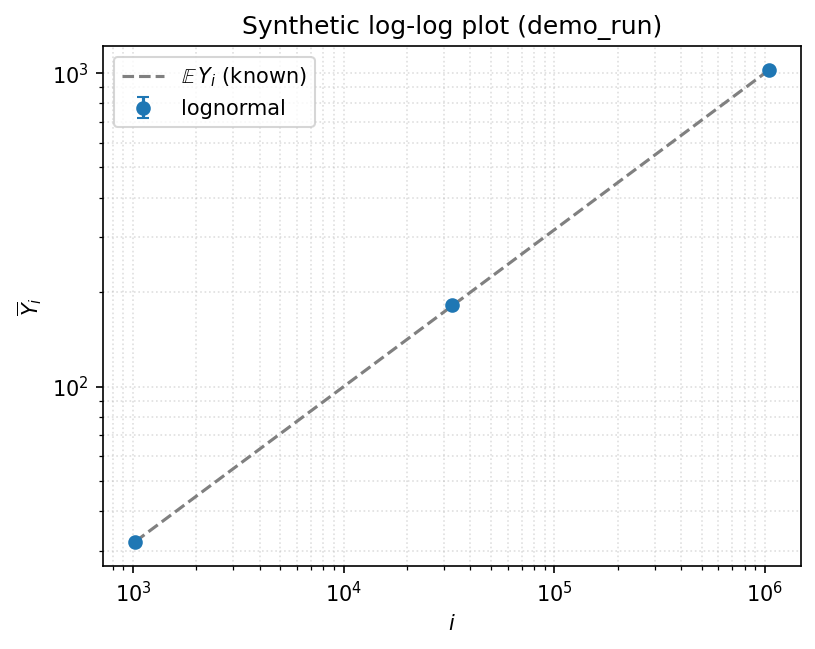
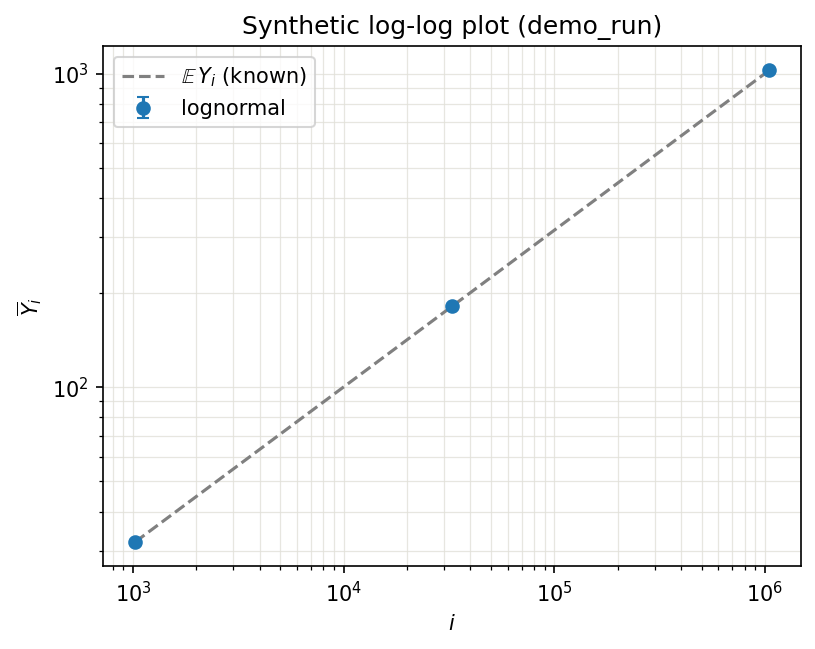
Add estimates_plot: visualize the 4 gamma-hat estimators
Loaded the dataviz skill before writing any chart code, per its own
trigger rule. Design: two_point and drop_leading each produce a sequence
of estimates, so they're plotted against the smallest scale used in each
window (log x-axis) -- shows directly whether the estimate converges as
small, more finite-size-biased scales get dropped. all_points and mle are
single estimates with no window to vary over, so they're horizontal
reference lines instead of being forced onto the same axis dishonestly.
true_gamma (when known) is a muted dashed reference.

Colors: dataviz skill's validated default palette, categorical slots 1-3
(blue/orange/aqua) in fixed order. mle's untrustworthy state uses the
reserved status-critical color (red, dashed, explicit "not trustworthy"
text in the legend -- never color alone) instead of spending a 4th
competing hue, per the palette's series-count ladder (an all-pairs-visible
chart caps at three hues; a 4th means fold to status/facet, not add a
hue). Also fixed the existing loglog_plot's dotted gridlines to the
skill's solid-hairline spec for consistency within the same module --
dashed/dotted gridlines are a listed anti-pattern.

tools/loglog_plot.py: new estimates_plot(results, *, ax=None), operating
on tools.loglog.compare_methods()'s output dict directly (so a results.json
could be reloaded and replotted without the original samples).
plot_loglog.py now also writes images/<stem>_estimates.png.
[…]

diff --git a/tools/loglog_plot.py b/tools/loglog_plot.py
@@ -11,6 +11,15 @@ plots E[Y_i] (or its empirical estimate Y_bar_i) against i on log-log axes,
 expecting an approximately straight line of slope gamma once finite-size
 effects are small. This draws exactly that: one point per scale, at
 (i, Y_bar_i), with +-1 standard error bars, on log-log axes.
+
+`estimates_plot` is a second, separate chart for `tools.loglog.compare_methods`'s
+output -- comparing the gamma-hat estimates themselves, not the raw data.
+
+Colors follow the dataviz skill's validated default palette (categorical slots
+1-3; see references/palette.md), status colors reserved for the mle estimator's
+trustworthy/not state rather than spent as a 4th competing hue (the palette's
+series-count ladder caps an all-pairs-visible chart -- points from two series
+plus two reference lines, all visible at once -- at three hues).
 """
 
 from __future__ import annotations
@@ -18,6 +27,17 @@ from __future__ import annotations
 from typing import Callable, Mapping, Sequence
 
 import numpy as np
+
+# Colors, dataviz skill's validated default palette (references/palette.md),
+# light mode. Categorical slots 1-3, fixed order, not cycled. Status color
+# reserved for mle's untrustworthy state, not spent as a 4th competing hue.
+_BLUE = "#2a78d6"
+_ORANGE = "#eb6834"
+_AQUA = "#1baf7a"
+_INK = "#0b0b0b"  # primary ink
+_MUTED = "#898781"  # muted ink, for the true_gamma target reference
+_GRIDLINE = "#e1e0d9"  # hairline gridline
+_CRITICAL = "#d03b3b"  # status palette, reserved for mle's untrustworthy state
 
 
 def loglog_points(samples: Mapping[int, Sequence[float]]):
@@ -75,6 +95,81 @@ def loglog_plot(
     ax.set_yscale("log")
     ax.set_xlabel("$i$")
     ax.set_ylabel(r"$\overline{Y}_i$")
-    ax.grid(True, which="both", ls=":", alpha=0.4)
+    ax.grid(True, which="both", ls="-", lw=0.6, color=_GRIDLINE, alpha=0.8)
     ax.legend()
+    return ax
+
+
+def estimates_plot(results: dict, *, ax=None):
+    """Plot the gamma-hat estimates from `tools.loglog.compare_methods`'s output.
+
+    `two_point` and `drop_leading` each produce a *sequence* of estimates, one
+    per window -- plotted against the smallest scale in each window (log x-axis),
+    so the chart shows directly whether the estimate is converging as small,
+    more finite-size-biased scales are dropped. `all_points` and `mle` are
+    single estimates with no window to vary over, so they're drawn as
+    horizontal reference lines across the full width instead of forced onto
+    the same x-axis dishonestly. `mle` is drawn in primary ink when its
+    `trustworthy` diagnostic is True, and in the status-critical color
+    (with an explicit warning in its legend label -- never color alone) when
+    it's False. `true_gamma`, if present in `results`, is a muted dashed
+    reference line.
+
+    Parameters
+    ----------
+    results : dict, as returned by `tools.loglog.compare_methods`.
+    ax : matplotlib Axes, optional. A new figure/axes is created if omitted.
+
+    Returns
+    -------
+    matplotlib Axes
+    """
+    import matplotlib.pyplot as plt  # deferred: keep this module importable without matplotlib
+
+    if ax is None:
+        _, ax = plt.subplots()
+
+    m = results["methods"]
+    scales = results["scales"]
+    x_min, x_max = min(scales), max(scales)
+
+    two_point = m["two_point"]["estimates"]
+    if two_point:
+        xs = [e["scales"][0] for e in two_point]
+        ys = [e["gamma_hat"] for e in two_point]
+        ax.plot(
+            xs, ys, marker="o", markersize=8, markeredgecolor="white", markeredgewidth=1.5,
+            linewidth=2, color=_BLUE, label="two_point ($m=2$)",
+        )
+
+    drop_leading = m["drop_leading"]["estimates"]
+    if drop_leading:
+        xs = [e["scales_used"][0] for e in drop_leading]
+        ys = [e["gamma_hat"] for e in drop_leading]
+        ax.plot(
+            xs, ys, marker="s", markersize=8, markeredgecolor="white", markeredgewidth=1.5,
+            linewidth=2, color=_ORANGE, label="drop_leading",
+        )
+
+    all_points_gamma = m["all_points"]["gamma_hat"]
+    ax.hlines(all_points_gamma, x_min, x_max, color=_AQUA, linewidth=2, label=f"all_points ({all_points_gamma:.4f})")
+
+    mle = m["mle"]
+    if mle["trustworthy"]:
+        ax.hlines(mle["gamma_hat"], x_min, x_max, color=_INK, linewidth=2, label=f"mle ({mle['gamma_hat']:.4f})")
+    else:
+        ax.hlines(
+            mle["gamma_hat"], x_min, x_max, color=_CRITICAL, linewidth=2, linestyle="--",
+            label=f"mle ({mle['gamma_hat']:.4f})  ⚠ not trustworthy",
+        )
+
+    true_gamma = results.get("true_gamma")
+    if true_gamma is not None:
+        ax.axhline(true_gamma, color=_MUTED, linewidth=1.5, linestyle="--", label=rf"true $\gamma$ ({true_gamma:.4f})")
+
+    ax.set_xscale("log")
+    ax.set_xlabel("smallest scale $i$ used in window")
+    ax.set_ylabel(r"$\hat\gamma$")
+    ax.grid(True, which="both", ls="-", lw=0.6, color=_GRIDLINE, alpha=0.8)
+    ax.legend(fontsize=8, loc="best")
     return ax

diff --git a/experiments/00_synthetic/plot_loglog.py b/experiments/00_synthetic/plot_loglog.py
@@ -16,9 +16,10 @@ overlay and true_gamma) is read from the same stem's .json if present, but
 isn't required -- missing metadata just means no overlay/true_gamma, not a
 failure to plot or estimate.
 
-Writes two outputs, both named after the data file's stem: the plot to
-`images/<stem>.png`, and the method-comparison to `data/<stem>_results.json`
-(see tools/loglog.py's compare_methods for the four methods compared).
+Writes three outputs, all named after the data file's stem: the raw-data plot
+to `images/<stem>.png`, a comparison of the four gamma-hat estimators (see
+tools/loglog.py's compare_methods) to `images/<stem>_estimates.png`, and the
+underlying numbers for the latter to `data/<stem>_results.json`.
 
 Run (after generating some data, e.g. `generator.py -meta example_config.json
 --tag demo_run`):
@@ -43,7 +44,7 @@ sys.path.insert(0, str(HERE.parent.parent))  # repo root, for tools/
 sys.path.insert(0, str(HERE))  # this dir, for generator
 
 from tools.loglog import compare_methods  # noqa: E402
-from tools.loglog_plot import loglog_plot, loglog_points  # noqa: E402
+from tools.loglog_plot import estimates_plot, loglog_plot, loglog_points  # noqa: E402
 
 from generator import load_metadata, load_samples, mean_Y, params_from_json  # noqa: E402
 
@@ -89,6 +90,13 @@ def main(argv: list[str] | None = None) -> None:
     results["source_npz"] = str(args.data)
     results_path = args.data.parent / f"{args.data.stem}_results.json"
     results_path.write_text(json.dumps(results, indent=2, sort_keys=True))
+
+    fig2, ax2 = plt.subplots(figsize=(6, 4.5))
+    estimates_plot(results, ax=ax2)
+    ax2.set_title(f"$\\hat\\gamma$ estimator comparison ({args.data.stem})")
+    out2 = out.parent / f"{args.data.stem}_estimates.png"
+    fig2.savefig(out2, dpi=150, bbox_inches="tight")
+    print(f"Saved {out2}")
 
     m = results["methods"]
     print(f"\ngamma estimates (true_gamma={true_gamma}):")

diff --git a/tools/README.md b/tools/README.md
@@ -4,10 +4,21 @@ Shared, experiment-agnostic utilities. May not import from `experiments/`. Every
 function here needs a passing unit test in `tools/tests/` (checked against a closed
 form, not just "runs") before any experiment is allowed to depend on it.
 
-`loglog_plot.py` — generic log-log plot of $\overline Y_i$ vs $i$ (any `{scale:
-samples}` dict, from any experiment) with $\pm 1$ SE error bars and an optional
-overlay of a known $\mathbb{E} Y_i$ curve. No unit test yet (it's a plot, not a
-numeric claim) — visually verified against `experiments/00_synthetic/`.
+`loglog_plot.py` — two charts. `loglog_plot`: generic log-log plot of
+$\overline Y_i$ vs $i$ (any `{scale: samples}` dict, from any experiment) with
+$\pm 1$ SE error bars and an optional overlay of a known $\mathbb{E} Y_i$
+curve. `estimates_plot`: compares the four $\hat\gamma$ estimators from
+`loglog.py`'s `compare_methods` — `two_point`/`drop_leading` (each a sequence
+of estimates) plotted against the smallest scale in their window, so the
+chart shows convergence as small, more finite-size-biased scales are dropped;
+`all_points`/`mle` (single estimates, no window) as horizontal reference
+lines; `true_gamma` (if known) as a muted dashed reference. Colors follow the
+dataviz skill's validated default palette — categorical slots 1-3, `mle`'s
+untrustworthy state uses the reserved status-critical color instead of a 4th
+competing hue (the palette's series-count ladder caps an all-pairs-visible
+chart at three). Neither chart has a unit test yet (they're plots, not
+numeric claims) — visually verified against `experiments/00_synthetic/`,
+including the untrustworthy-MLE styling path.
 
 `loglog.py` — four $\hat\gamma$ estimators. Three as the general OLS slope of
 $\log\overline Y_i$ vs $\log i$ (equivalent to the article's closed-form

diff --git a/TODO.md b/TODO.md
@@ -44,6 +44,12 @@ its numeric acceptance criterion (see PLAN.md) passes, not when it runs without 
       (5/200 not-trustworthy, always via optimizer non-convergence rather than a
       bad estimate); `compare_methods`/`loglog_points` updated to thread `n`
       through~~
+- [x] ~~`tools/loglog_plot.py`'s `estimates_plot`: visualizes `compare_methods`'
+      four estimators (dataviz-skill palette; two_point/drop_leading vs smallest
+      scale in window, all_points/mle as reference lines, mle styled by its
+      `trustworthy` status color rather than a 4th hue); `plot_loglog.py` writes
+      `images/<stem>_estimates.png`. Verified against both a 3-scale and a dense
+      10-scale synthetic run, and the untrustworthy-MLE styling path~~
 - [ ] Decide how checkpoint acceptance criteria actually get verified going forward
       (the first attempt, a standalone `run_checkpoint_0_1.py` script, was removed —
       unclear value, not the right shape; alternative not yet agreed)

diff --git a/experiments/00_synthetic/README.md b/experiments/00_synthetic/README.md
@@ -40,6 +40,7 @@ produce many different runs (different tags/seeds), so pointing it at a JSON wou
 ambiguous about which run's data you mean. Metadata (for the reference-curve overlay and
 `true_gamma`) is read from the same stem's `.json` if present, but isn't required — missing
 metadata just means no overlay, not a failure to plot. It also writes
+`images/<stem>_estimates.png` (via `tools/loglog_plot.py`'s `estimates_plot`) and
 `data/<stem>_results.json`, comparing four $\hat\gamma$ estimators from `tools/loglog.py`
 over the same data (all-points OLS, two-point/$m{=}2$, drop-leading-$m_0$ sweep, and a
 maximum-likelihood estimator — see `derivations/mle_gamma_estimator.tex` for its derivation)
